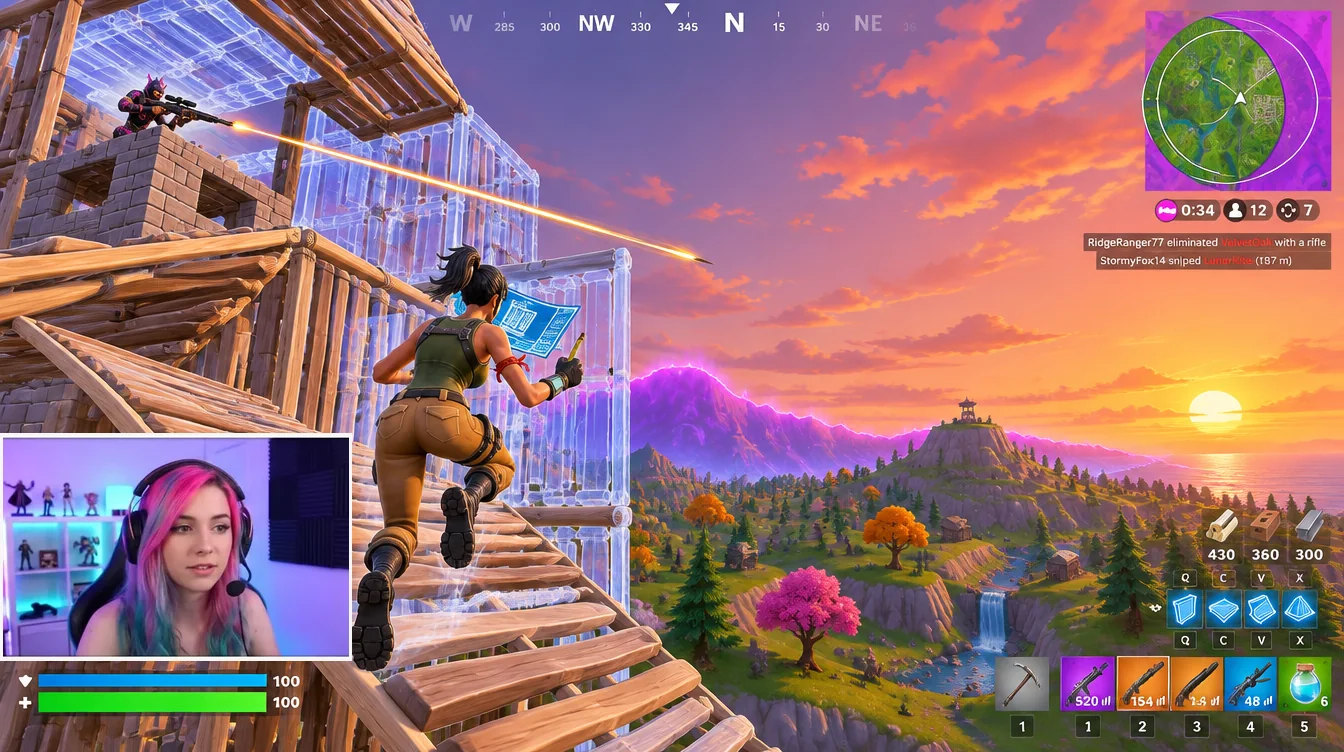
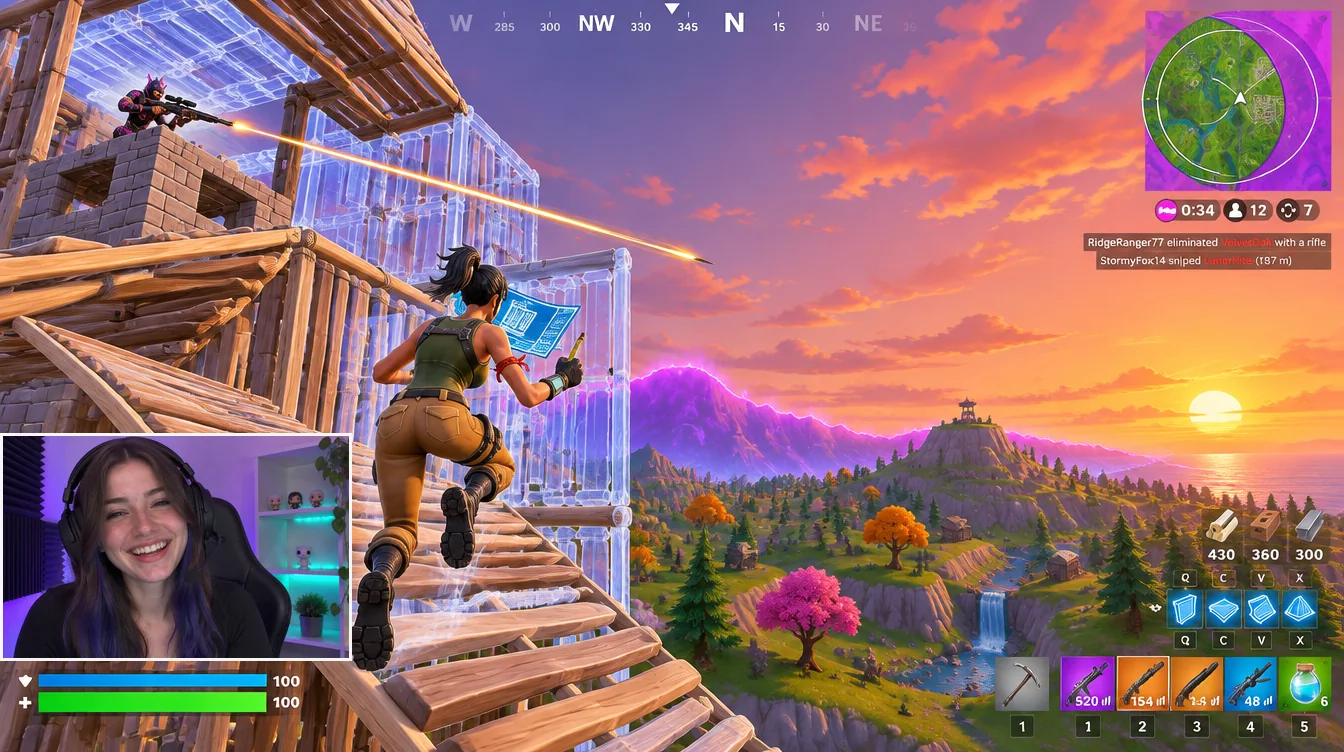
landing: Holler still's facecam is a new, more natural streamer (owner's pick)
Generated, prompt only: brown hair with a subtle blue-violet dye, warm
laugh, generic shelf figures (the previous take's shelf had recognisable
characters). Composited into the build-fight still's facecam frame.
Takes kept in design-assets/landing-cards/fortnite/ (cam-r2-*.png).

Changed region(s): [[0.0, 0.5811, 0.2812, 0.887]]

diff --git a/web/components/landing/ways-in.css b/web/components/landing/ways-in.css
@@ -46,7 +46,7 @@
   opacity: 0;
   transition: opacity .32s cubic-bezier(.23, 1, .32, 1);
 }
-.mcl-ways-shot[data-shot='holler'] { background-image: url('/landing/ways-holler.webp?v=3'); }
+.mcl-ways-shot[data-shot='holler'] { background-image: url('/landing/ways-holler.webp?v=4'); }
 .mcl-ways-shot[data-shot='callin'] { background-image: url('/landing/ways-callin.webp'); }
 .mcl-ways-shot[data-shot='bounty'] { background-image: url('/landing/ways-bounty.webp?v=2'); }
 .mcl-ways-stage[data-way='holler'] [data-shot='holler'],
